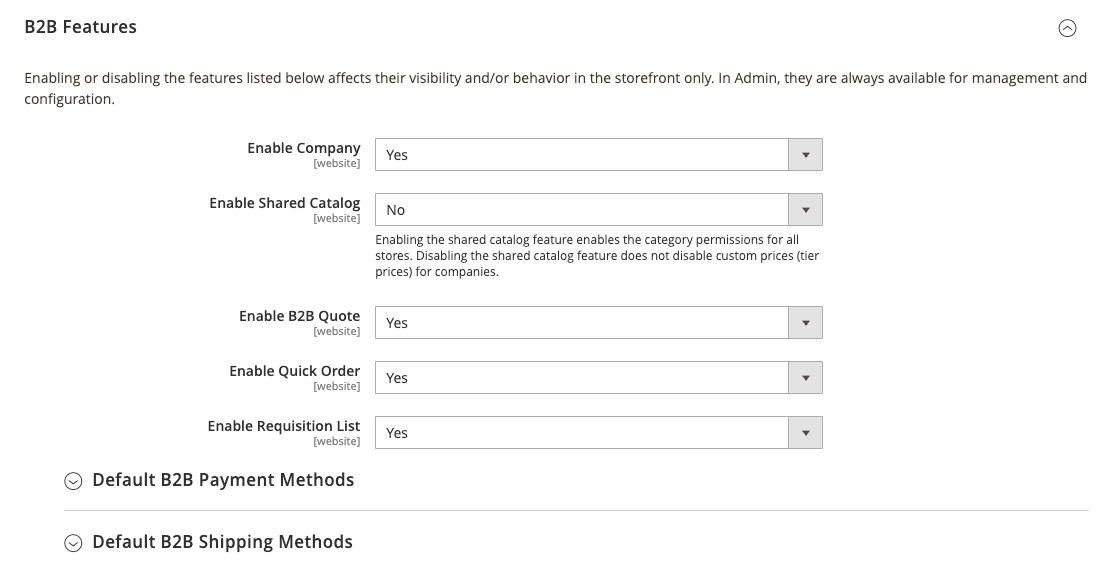
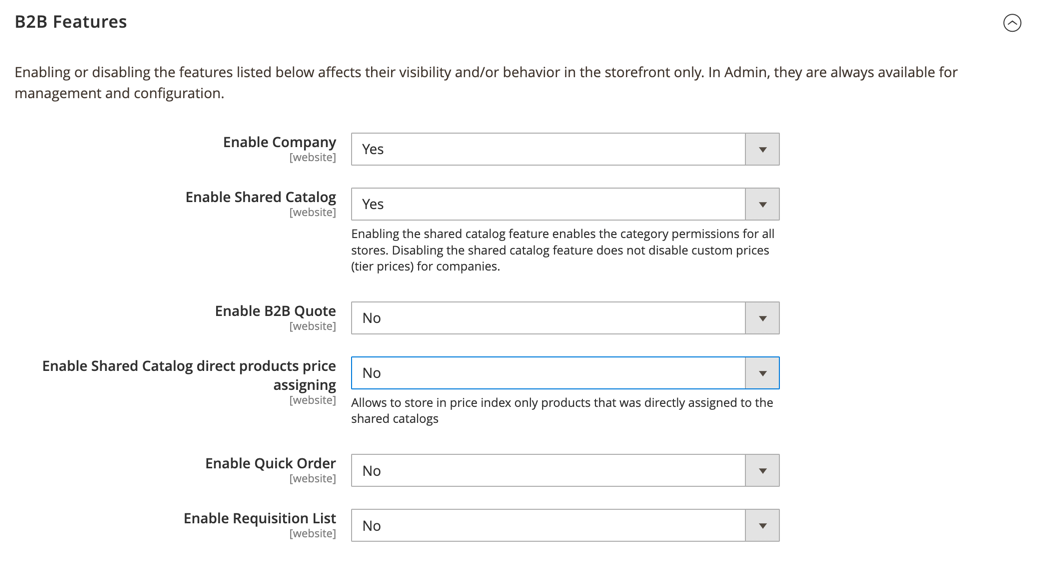
Update configuration reference

diff --git a/src/configuration/general/b2b-features.md b/src/configuration/general/b2b-features.md
@@ -17,13 +17,14 @@ _B2B Features_
 |[Enable Requisition List]({% link customers/account-dashboard-requisition-lists.md %})|Website|When enabled, allows customer to create and manage requisition lists from their account dashboard.|
 
 ![]({% link configuration/general/assets/b2b-features-company-enabled.png %}){: .zoom}
-_B2B Features with companies enabled_
+_B2B Features with companies and shared catalogs enabled_
 
 When companies are enabled, additional fields are available.
 
 |Field|[Scope]({% link configuration/scope.md %})|Description|
 |--- |--- |--- |
 |[Enable Shared Catalog]({% link catalog/catalog-shared.md %})|Website|When enabled, makes it possible to create curated catalogs with custom pricing that are available either globally, or limited to specific companies. Options: Yes / No|
+|Enable Shared Catalog direct products price assigning|Website|When the _Enable Shared Catalog_ option is set to `Yes`, this option is available. When enabled, only products that are assigned to a shared catalog are stored in the price index. Options: Yes / No|
 |[Enable B2B Quote]({% link customers/account-dashboard-quotes.md %})|Website|When enabled, allows company buyers to submit a request for a quote from the shopping cart.  Options: Yes / No|
 
 ### Default B2B Payment Methods
